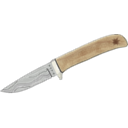
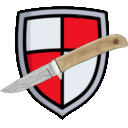
gamedisplay added

diff --git a/src/main/java/com/github/brunothg/jshooter/Application.java b/src/main/java/com/github/brunothg/jshooter/Application.java
@@ -4,6 +4,7 @@ import java.io.IOException;
 import java.net.URL;
 import java.util.Locale;
 
+import javax.swing.SwingUtilities;
 import javax.swing.UIManager;
 
 import org.slf4j.Logger;
@@ -16,7 +17,7 @@ import org.springframework.context.ConfigurableApplicationContext;
 import com.github.brunothg.game.engine.image.InternalImage;
 import com.github.brunothg.game.engine.utils.event.EventBus;
 import com.github.brunothg.jshooter.config.UserProperties;
-import com.github.brunothg.jshooter.gui.settings.SettingsCentral;
+import com.github.brunothg.jshooter.gui.GameDisplay;
 import com.github.brunothg.jshooter.utils.LookAndFeelUtils;
 import com.github.brunothg.jshooter.utils.SplashScreenUtil;
 import com.github.brunothg.jshooter.utils.ThreadUtils;
@@ -60,7 +61,7 @@ public class Application {
 			}
 		});
 
-		ctx.getBean(SettingsCentral.class).showSettingsDialog(null);
+		launchApplication();
 	}
 
 	private static void initializeSpring(String[] args) {
@@ -85,6 +86,15 @@ public class Application {
 
 		// Setup event bus
 		applicationEventBus = new EventBus(Application.class);
+	}
+
+	private static void launchApplication() {
+		SwingUtilities.invokeLater(new Runnable() {
+			public void run() {
+				GameDisplay display = ctx.getBean(GameDisplay.class);
+				display.setVisible(true);
+			}
+		});
 	}
 
 	private static void registerShutdownHook() {

diff --git a/src/main/java/com/github/brunothg/jshooter/gui/GameDisplay.java b/src/main/java/com/github/brunothg/jshooter/gui/GameDisplay.java
@@ -1,0 +1,37 @@
+package com.github.brunothg.jshooter.gui;
+
+import java.awt.BorderLayout;
+
+import javax.swing.JFrame;
+
+import org.springframework.beans.factory.annotation.Autowired;
+import org.springframework.context.annotation.Scope;
+import org.springframework.stereotype.Component;
+
+import com.github.brunothg.game.engine.image.InternalImage;
+import com.github.brunothg.jshooter.utils.I18N;
+
+@Component
+@Scope("prototype")
+public class GameDisplay extends JFrame {
+	private static final long serialVersionUID = 1L;
+
+	private I18N language;
+
+	@Autowired
+	public GameDisplay(I18N language) {
+		this.language = language;
+
+		build();
+	}
+
+	private void build() {
+		setDefaultCloseOperation(JFrame.EXIT_ON_CLOSE);
+		setLayout(new BorderLayout());
+		setSize(800, 600);
+		setLocationRelativeTo(null);
+		setTitle(language.get("app-name"));
+		setIconImage(InternalImage.load("icon.png"));
+	}
+
+}
